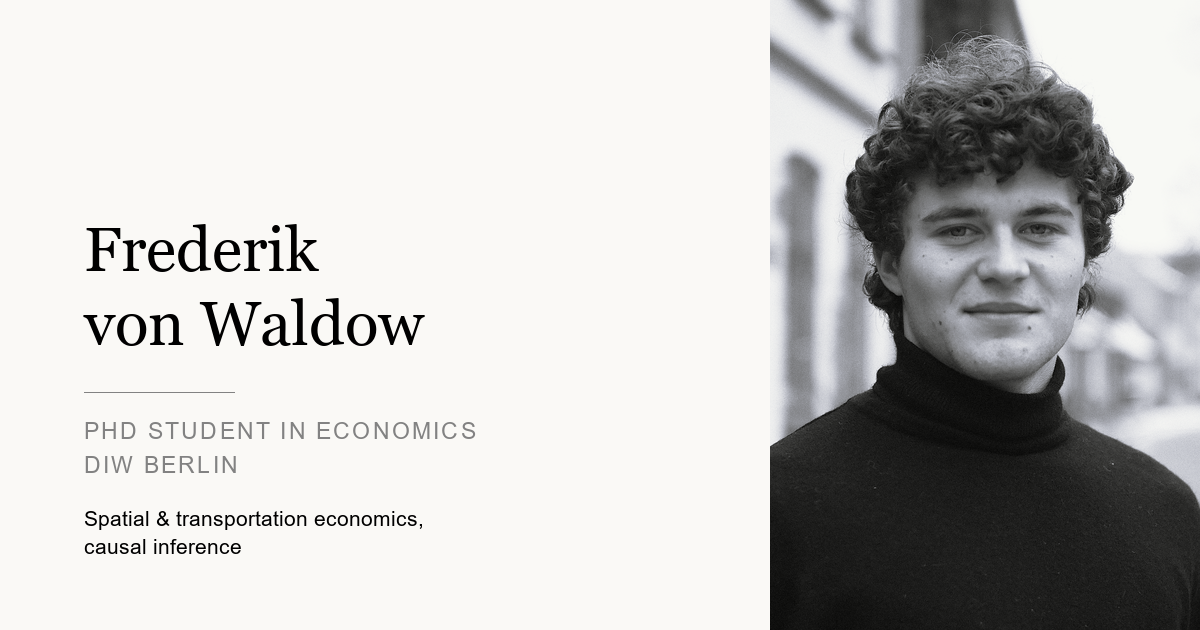
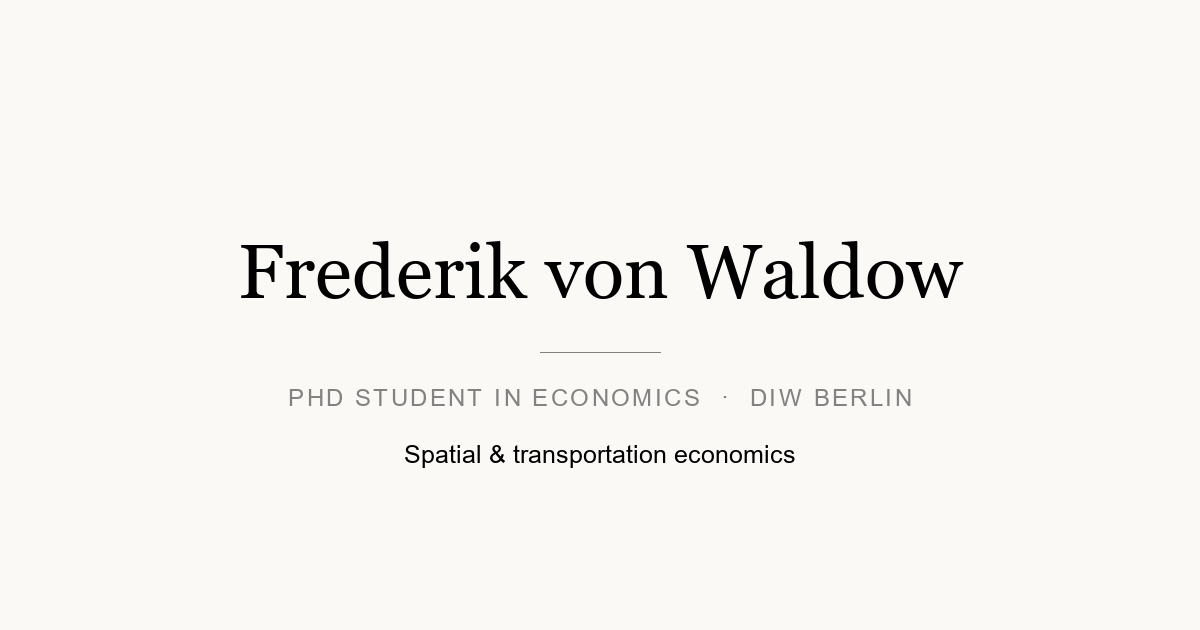
.

diff --git a/_pages/cv.md b/_pages/cv.md
@@ -20,6 +20,13 @@ _styles: |
     color: var(--global-theme-color);
   }
 
+  .pdf-page {
+    /* content-box so the border sits outside the canvas rather than clipping it */
+    box-sizing: content-box;
+    border: 1px solid var(--global-divider-color);
+    border-radius: 4.5px;
+  }
+
   #pdf-viewer canvas {
     mix-blend-mode: multiply;
   }
